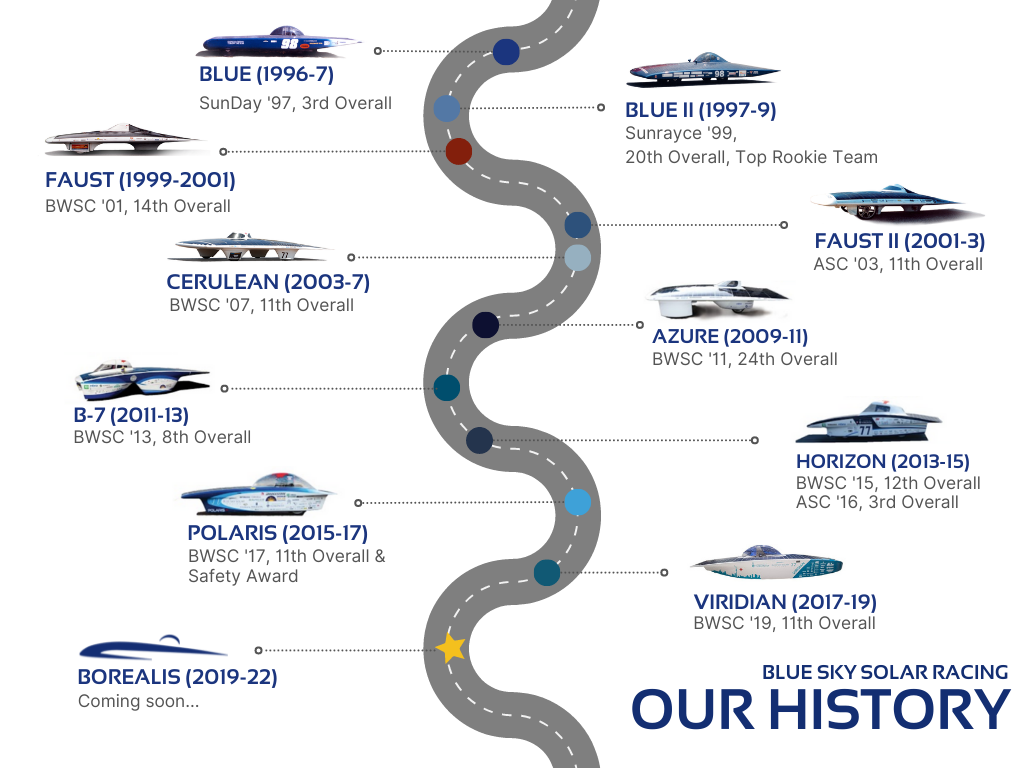
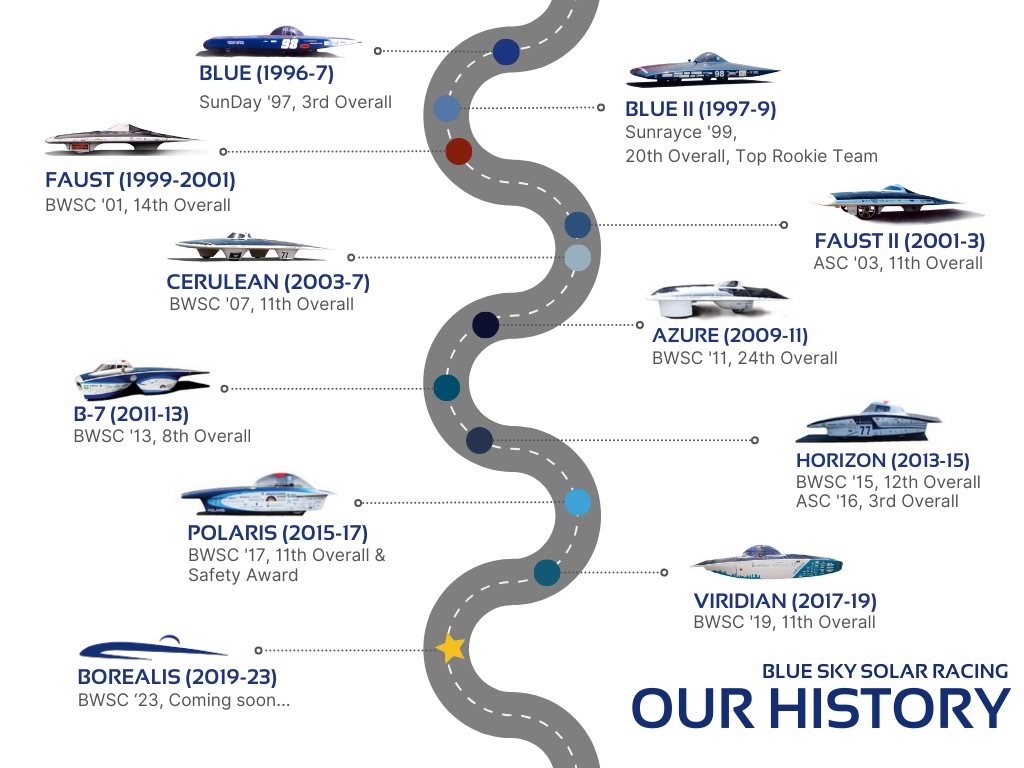
Added history tab

diff --git a/header.html b/header.html
@@ -10,6 +10,7 @@
                         <div class="dropdown-item"><a href="/team"><span class="dropdown-text">Team</span></a></div>
                         <div class="dropdown-item"><a href="/solar-cars"><span class="dropdown-text">Car
                                     Models</span></a></div>
+                        <div class="dropdown-item"><a href="/history"><span class="dropdown-text">History</span></a></div>
                         <div class="dropdown-item"><a href="https://www.flickr.com/photos/blueskysolar/albums"
                                 target="_blank"><span class="dropdown-text">Gallery</span></a></div>
                     </div></span> </span> </div>
@@ -30,19 +31,29 @@
                     src="/images/logo-black.png" type="image/png" alt="" style="max-height: 60px;"></a> </div>
         <div class="header-hamburger"> <span class="header-bar"></span> <span class="header-bar"></span> <span
                 class="header-bar"></span> </div>
-        <div class="header-hamburger-dropdown"> <a href="/index">
+        <div class="header-hamburger-dropdown"> 
+            <a href="/index">
                 <div class="header-hamburger-dropdown-item">Home</div>
-            </a> <a href="/team">
+            </a> 
+            <a href="/team">
                 <div class="header-hamburger-dropdown-item">Team</div>
-            </a> <a href="/solar-cars">
+            </a> 
+            <a href="/solar-cars">
                 <div class="header-hamburger-dropdown-item">Cars</div>
-            </a> <a href="https://www.flickr.com/photos/blueskysolar/albums" target="_blank">
+            </a>
+            <a href="/history">
+                <div class="header-hamburger-dropdown-item">History</div>
+            </a>  
+            <a href="https://www.flickr.com/photos/blueskysolar/albums" target="_blank">
                 <div class="header-hamburger-dropdown-item">Gallery</div>
-            </a> <a href="/wsc">
+            </a> 
+            <a href="/wsc">
                 <div class="header-hamburger-dropdown-item">WSC</div>
-            </a> <a href="/our-sponsors">
+            </a> 
+            <a href="/our-sponsors">
                 <div class="header-hamburger-dropdown-item">Sponsors</div>
-            </a> <a href="/contact-us">
+            </a> 
+            <a href="/contact-us">
                 <div class="header-hamburger-dropdown-item"
                     style="border-bottom-left-radius: 20px; border-bottom-right-radius: 20px;">Contact Us</div>
             </a> </div>

diff --git a/history.html b/history.html
@@ -1,0 +1,38 @@
+<!DOCTYPE html>
+<html>
+
+<head>
+    <title>History</title>
+    <link rel="icon" sizes="57x57" href="/images/tab-icon.png" />
+    <meta name="viewport" content="width=device-width, initial-scale=1" />
+    <script src="https://ajax.googleapis.com/ajax/libs/jquery/3.6.0/jquery.min.js"></script>
+    <link rel="stylesheet" href="https://fonts.googleapis.com/css?family=Barlow">
+    <link
+        href="https://fonts.googleapis.com/css2?family=Barlow+Semi+Condensed:ital,wght@0,200;0,600;0,700;0,800;1,100&display=swap"
+        rel="stylesheet">
+    <link rel="stylesheet" href="styles.css">
+    <script type="text/javascript" src="script.js"></script>
+    <link rel="stylesheet" type="text/css" href="//cdn.jsdelivr.net/npm/slick-carousel@1.8.1/slick/slick.css" />
+    <link rel="stylesheet" type="text/css" href="//cdn.jsdelivr.net/npm/slick-carousel@1.8.1/slick/slick-theme.css" />
+    <script src="https://code.jquery.com/jquery-3.3.1.js"
+        integrity="sha256-2Kok7MbOyxpgUVvAk/HJ2jigOSYS2auK4Pfzbm7uH60=" crossorigin="anonymous"> </script>
+    <script>$(function () { $("#header").load("header.html"); $("#footer").load("footer.html"); }); </script>
+</head>
+
+<body>
+    <div id="header"></div>
+    <div class="history-container" style="padding-top: 100px">
+        <div class="page-banner"> <img class="page-banner-image" src="/images/historybanner.jpg" type="image/jpeg" alt="">
+            <div class="page-banner-text">
+                <div class="page-banner-title">OUR HISTORY</div>
+                <div class="page-banner-description">Coast through Blue Sky Solar Racing's over 20 years of history, from our very first car Blue to our current car Borealis!</div>
+            </div>
+        </div>
+        <div class="page-padder"></div>
+        <div class="history-image-container"> <img class="history-image" src="/images/bssr_history.png" type="image/jpeg" alt="">
+        <div class="page-padder"></div>
+    </div>
+    <div id="footer"></div>
+</body>
+
+</html>

diff --git a/styles.css b/styles.css
@@ -389,6 +389,29 @@ body::-webkit-scrollbar {
     animation: fadeInUp 0.5s;
 }
 
+/* OUR HISTORY */
+
+.history-container {
+    max-width: 100%;
+    margin: auto;
+    display: block;
+}
+
+.history-image-container {
+    position: relative;
+    text-align: center;
+}
+
+.history-image {
+    border: 1px solid black;
+    max-width: 80%;
+    display: block;
+    margin-left: auto;
+    margin-right: auto;
+    margin-top: 30px;
+    margin-bottom: 30px;
+}
+
 /* HOME/INDEX */
 .home-container {
     max-width: 100%;
@@ -903,7 +926,7 @@ a.playBtn::after {
 
 .header-item {
     font-family: "Barlow";
-    font-size: 18px;
+    font-size: 17px;
     font-weight: 700;
     line-height: 100px;
     text-align: left;
@@ -949,6 +972,7 @@ a.playBtn::after {
 .dropdown-item {
     line-height: 30px;
     height: 35px;
+    max-width: 100%;
     text-align: left;
     display: block;
 }

diff --git a/index.html b/index.html
@@ -31,7 +31,7 @@
             <div id="map">
                 <iframe src="https://www.google.com/maps/d/u/0/embed?mid=1_jaSs6q7_XoRh7bA-xW7goS-5FTzKmI&ll=-26.080897078197918%2C132.6501025447453&z=5&noprof=1"></iframe>
             </div>
-            </div>
+        </div>
         <!-- HELLO TEXT BLOCK -->
         <div class="home-intro-box">
             <div class="home-left">
